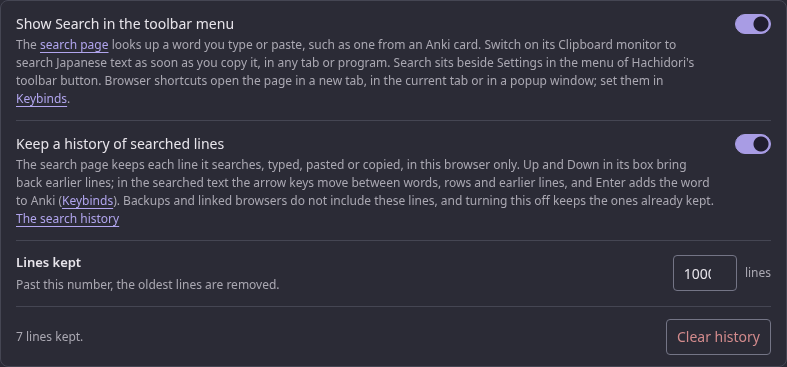
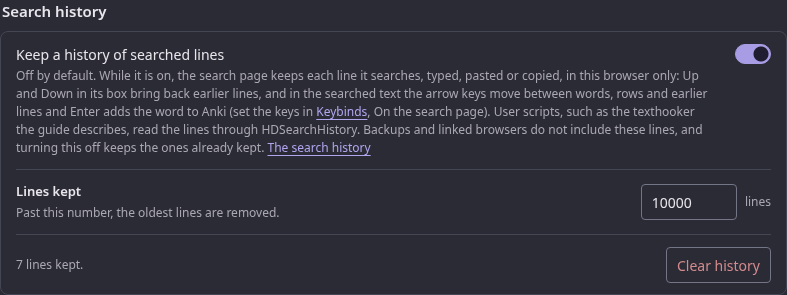
Search history media: screenshots at 6700ef4a, with Settings → Advanced → Search history

diff --git a/search-history/README.md b/search-history/README.md
@@ -15,10 +15,10 @@ the script builds, with glosses written for it; the lines arrive through the
 Clipboard monitor from another tab, in a copy of the extension that holds
 `clipboardRead`, as the Chrome suite does. The captions are the script's, laid
 over the page; the red dot marks a click, which headless screenshots do not
-show. `531b7f0c` is `32e49e85` on the branch rebased onto main at `353ce324`. The GIFs
+show. `531b7f0c` is `e377a2bd` on the branch rebased onto main at `353ce324`. The GIFs
 predate two changes to the neighbour rows: in them the rows are the text's
-size and mixed toward the page, where now they are smaller (`009cb180`) and in
-the palette's dim text (`67246e75`).
+size and mixed toward the page, where now they are smaller (`4fa02302`) and in
+the palette's dim text (`e5f00144`).
 
 | File | Shows |
 | --- | --- |
@@ -33,15 +33,17 @@ HACHIDORI_CHROME=<chrome 152> node scripts/capture-search-history-gifs.mjs <repo
 ## Screenshots
 
 `HACHIDORI_SEARCH_SCREENSHOTS=DIR node test/chrome-search-history.mjs` on the
-PR at `626cd4e9`: an earlier line's visit (the searched text with its cursor,
-the neighbour rows and the keys) in the default, Girlypop (light), Solarized
-Light and High contrast palettes and with forced colours emulated, and
-Settings → Reading → Search page. The neighbour rows are dimmed (the palette's
-dim text mixed toward the page, as far as each palette keeps 4.5:1) and set
-smaller than the searched text. Solarized Light's text is at 4.65:1, so there
-only the size sets them apart. The Chrome suite checks, in all 42 palettes,
-that the rows keep 4.5:1, are smaller, and are dimmer than the searched text
-wherever it is at 4.7:1 or more.
+PR at `6700ef4a`, with the history switched on: an earlier line's visit (the
+searched text with its cursor, the neighbour rows and the keys) in the
+default, Girlypop (light), Solarized Light and High contrast palettes and with
+forced colours emulated, and Settings → Advanced → Search history, where the
+switch is off until turned on. The neighbour rows are dimmed (the palette's
+dim text mixed toward the page, less where a palette has less room above
+4.5:1) and set smaller than the searched text. Solarized Light's text is at
+4.65:1, so there only the size sets them apart. The Chrome suite checks, in
+all 42 palettes, that the rows keep 4.5:1, are at most 85% of the text's size,
+and that the text's contrast is at least 1.05 times theirs wherever it is at
+4.7:1 or more.
 
 ## Benchmark
 
